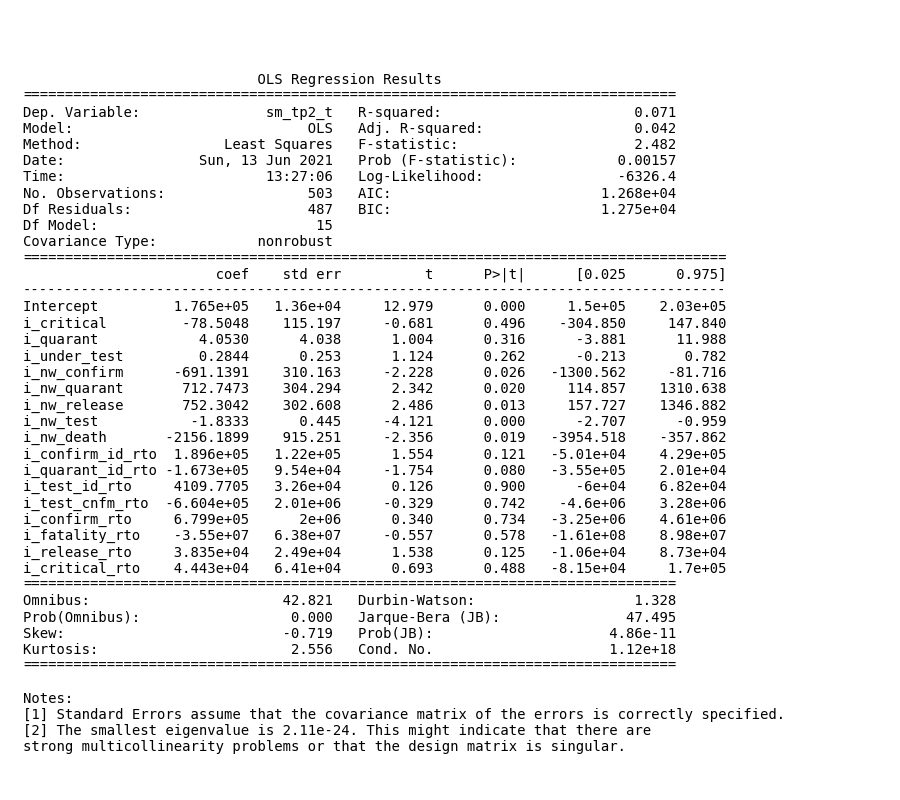
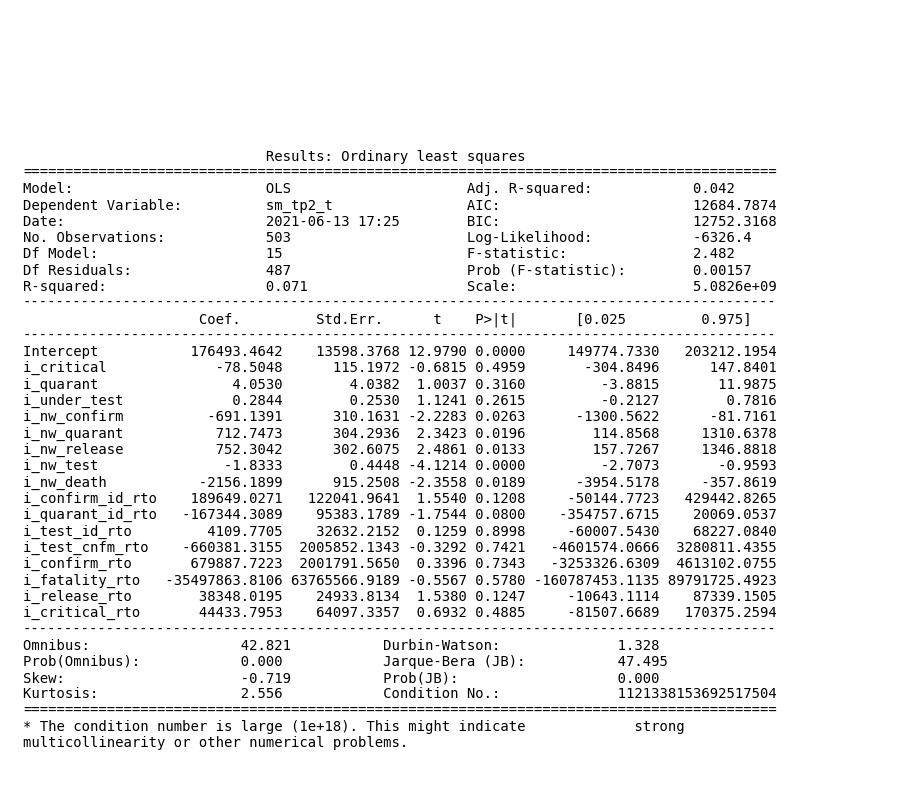
#10 | 차종별 회귀분석

Changed region(s): [[0.0, 0.0938, 0.8711, 0.9375]]

diff --git a/main.py b/main.py
@@ -190,7 +190,7 @@ def regression_analysis(data):
         y, x = dmatrices("sm_" + v + "_t ~" + features, data=data, return_type="dataframe")
         result = sm.OLS(y, x).fit()
         plt.rc('figure', figsize=(9, 8))
-        plt.text(0.01, 0.05, str(result.summary()), {'fontsize': 10},
+        plt.text(0.01, 0.05, str(result.summary2()), {'fontsize': 10},
                  fontproperties='monospace')  # approach improved by OP -> monospace!
         plt.axis('off')
         plt.tight_layout()
@@ -200,7 +200,7 @@ def regression_analysis(data):
         y1, x1 = dmatrices("sm_" + v + "_t ~" + features_fixed, data=data, return_type="dataframe")
         result1 = sm.OLS(y1, x1).fit()
         plt.rc('figure', figsize=(9, 8))
-        plt.text(0.01, 0.05, str(result1.summary()), {'fontsize': 10},
+        plt.text(0.01, 0.05, str(result1.summary2()), {'fontsize': 10},
                  fontproperties='monospace')  # approach improved by OP -> monospace!
         plt.axis('off')
         plt.tight_layout()
